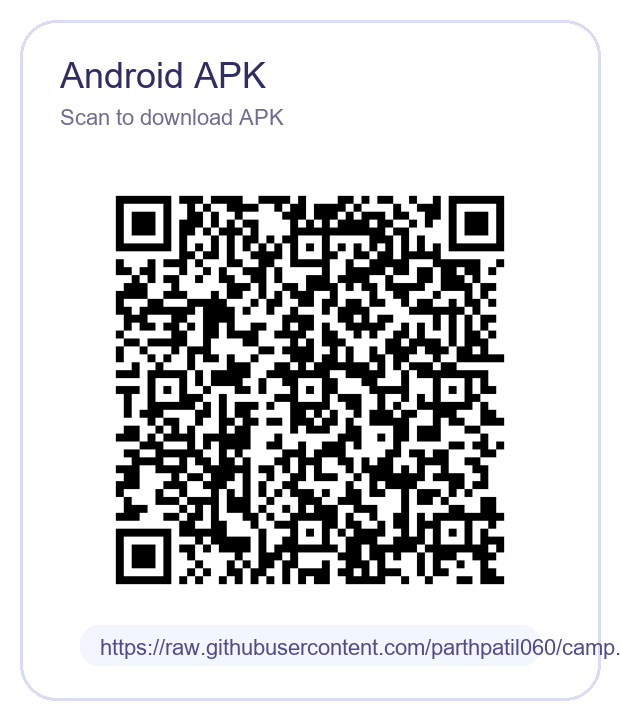
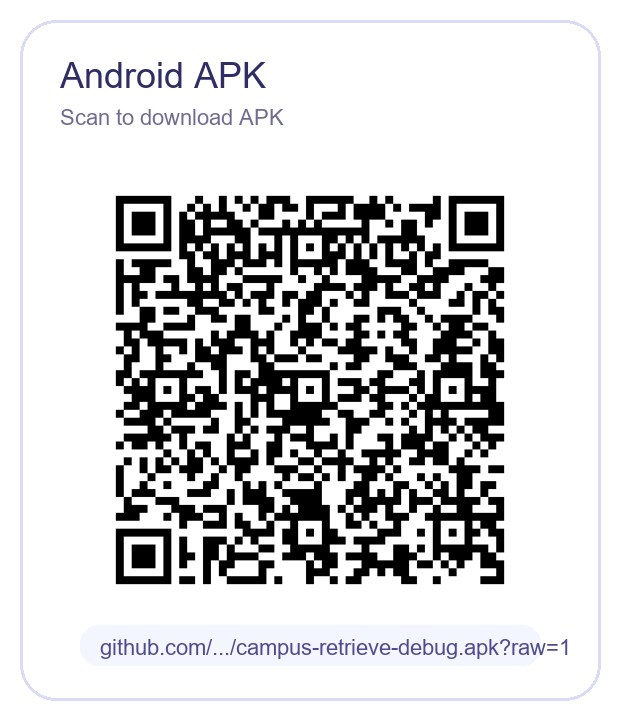
Fix Android APK QR download URL

Changed region(s): [[0.1839, 0.2444, 0.8274, 0.825], [0.1532, 0.8861, 1.0, 0.9167]]

diff --git a/share_qr/README.md b/share_qr/README.md
@@ -1,6 +1,8 @@
 ## QR Codes
 
-- `android_apk_qr.png`: points to the APK file hosted on the `broadcast-feature` branch.
+- `android_apk_qr.png`: points to the GitHub download URL for the APK on the `broadcast-feature` branch.
+  Android APK URL:
+  `https://github.com/parthpatil060/campus_lost_found/blob/broadcast-feature/downloads/android/campus-retrieve-debug.apk?raw=1`
 - `ios_qr_placeholder.png`: placeholder QR that currently points to the repository branch because no installable iOS link is available in this workspace.
 
 To create a real iPhone install QR later, replace the placeholder target with one of these:
